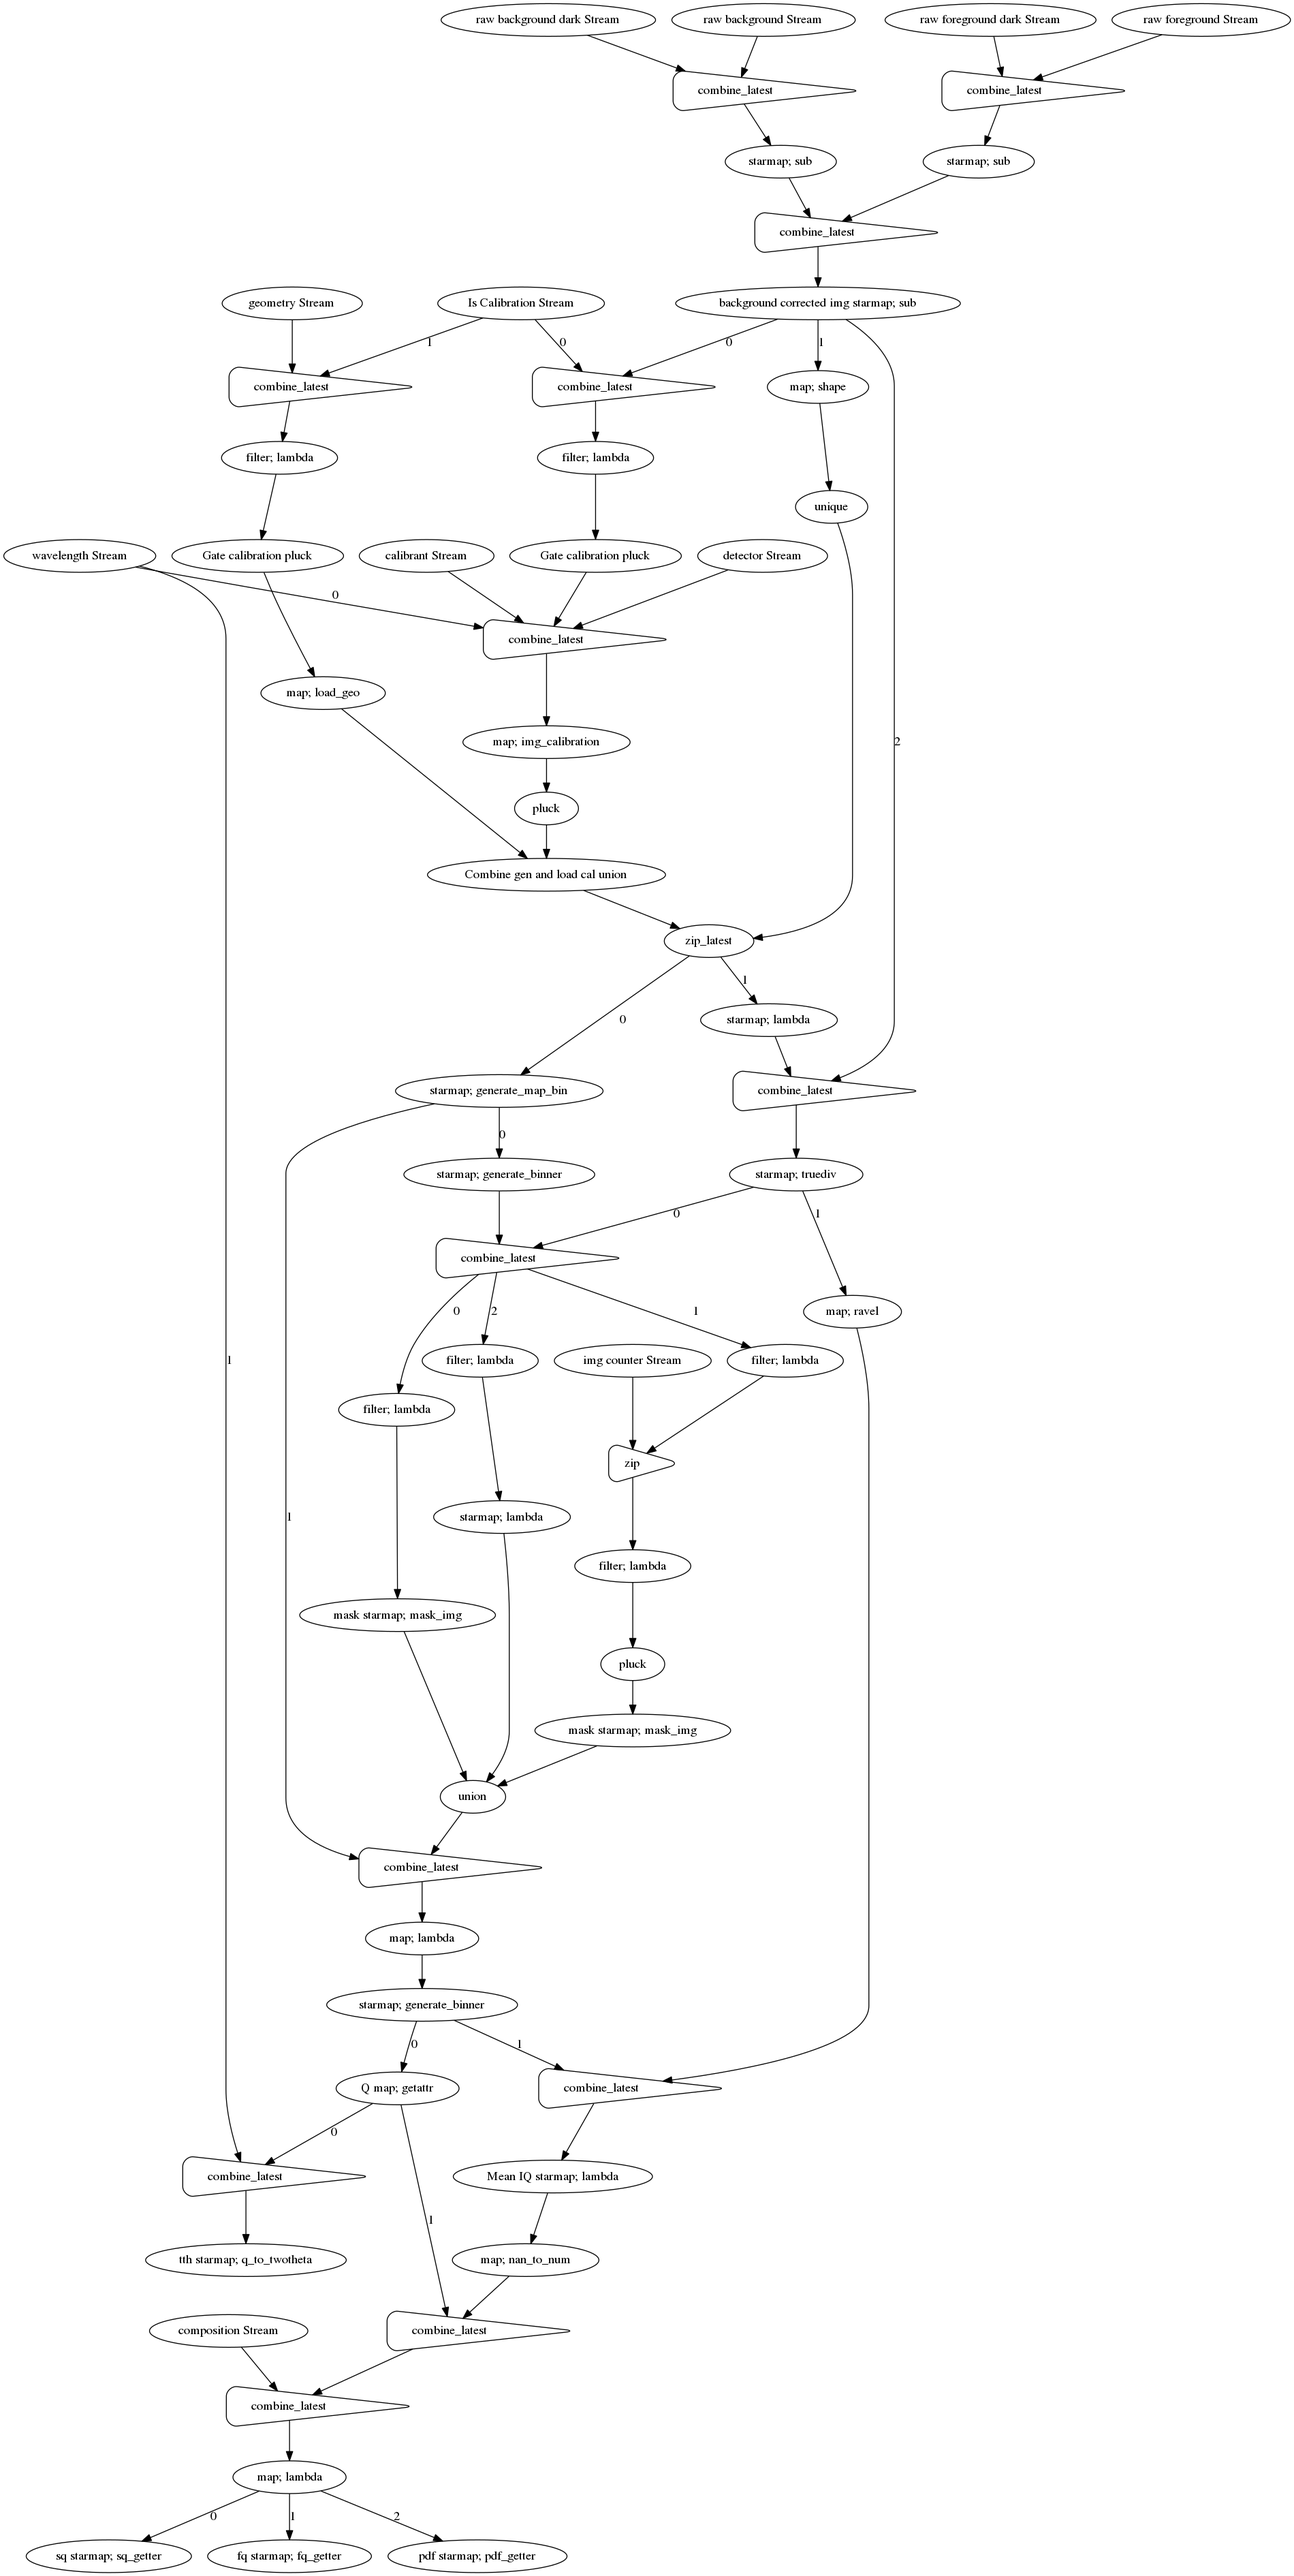
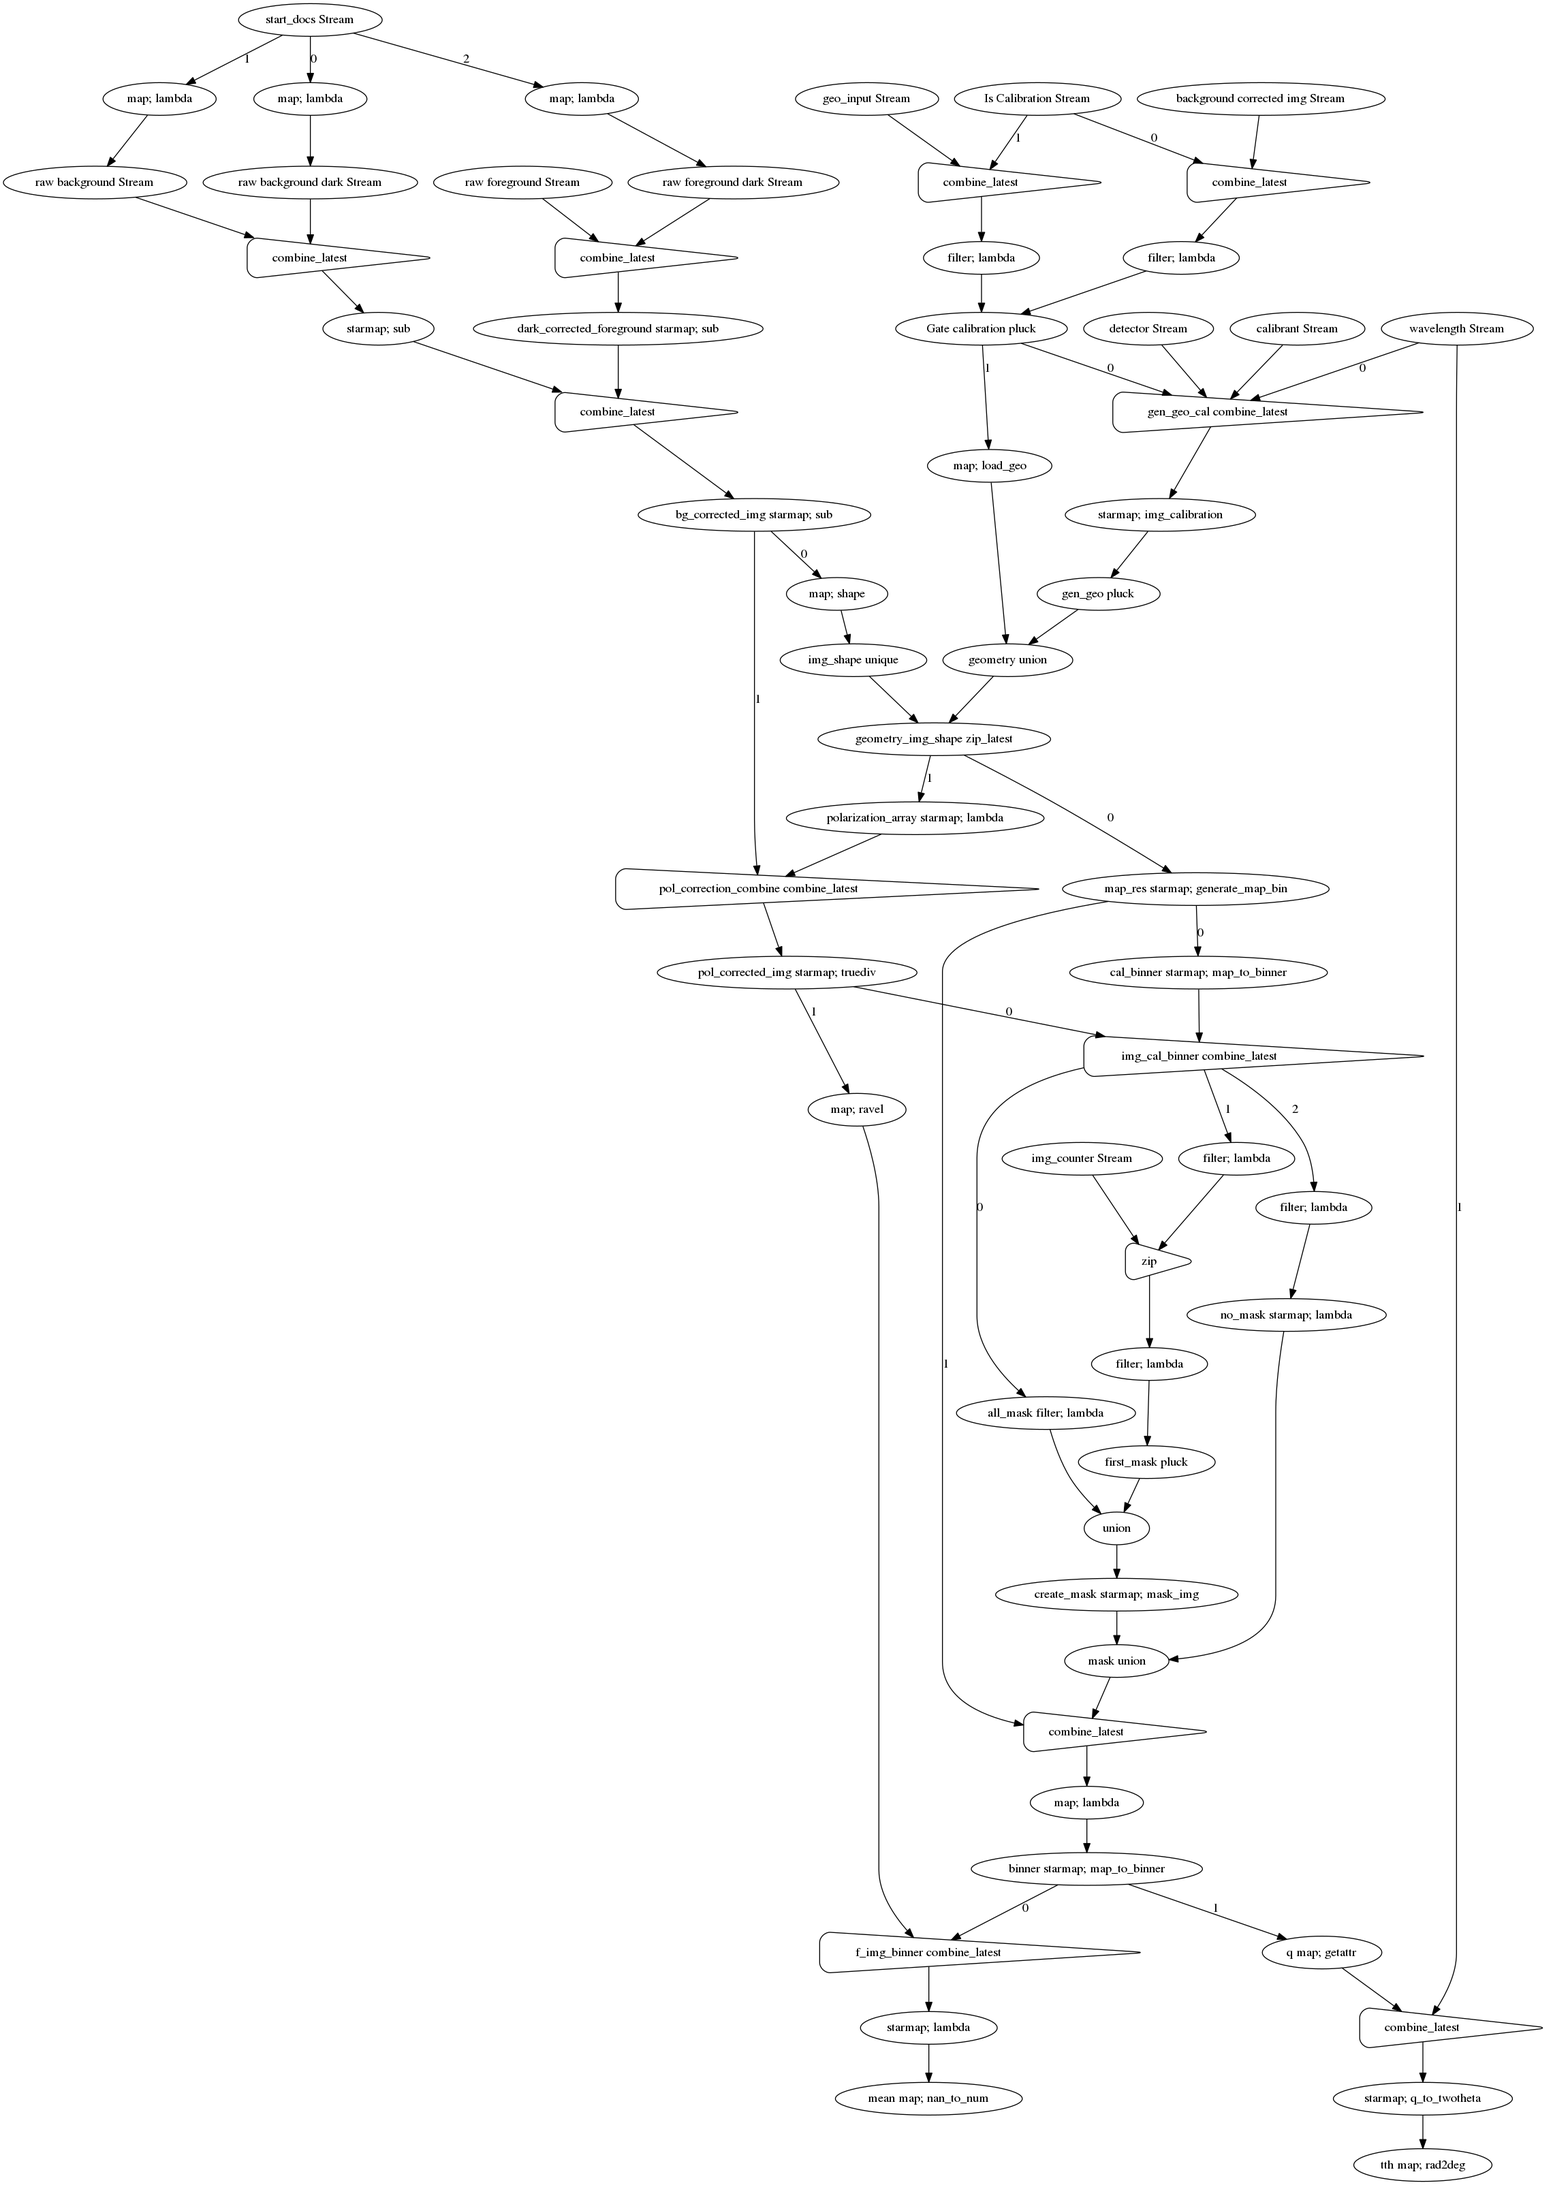
WIP: use the new networkx system

diff --git a/xpdtools/pipelines/calibration.py b/xpdtools/pipelines/calibration.py
@@ -2,56 +2,42 @@ from streamz import Stream
 from xpdtools.calib import img_calibration
 from xpdtools.tools import load_geo, generate_map_bin, map_to_binner
 
+from streamz_ext import create_streamz_graph
+
 
 def make_pipeline():
     """Make the pipeline for x-ray scattering detector calibration"""
-    bg_corrected_img = Stream()
-    img_shape = Stream()
+    bg_corrected_img = Stream(stream_name='background corrected img')
+    img_shape = Stream(stream_name='img_shape')
     # Calibration management
     wavelength = Stream(stream_name="wavelength")
     calibrant = Stream(stream_name="calibrant")
     detector = Stream(stream_name="detector")
     is_calibration_img = Stream(stream_name="Is Calibration")
-    geo_input = Stream(stream_name="geometry")
+    geo_input = Stream(stream_name="geo_input")
     gated_cal = (
         bg_corrected_img.combine_latest(is_calibration_img, emit_on=0)
         .filter(lambda a: bool(a[1]))
         .pluck(0, stream_name="Gate calibration")
     )
     gen_geo_cal = gated_cal.combine_latest(
-        wavelength, calibrant, detector, emit_on=0
+        wavelength, calibrant, detector, emit_on=0, stream_name='gen_geo_cal'
     ).starmap(img_calibration)
-    gen_geo = gen_geo_cal.pluck(1)
+    gen_geo = gen_geo_cal.pluck(1, stream_name='gen_geo')
     geometry = (
         geo_input.combine_latest(is_calibration_img, emit_on=0)
         .filter(lambda a: not bool(a[1]))
         .pluck(0, stream_name="Gate calibration")
         .map(load_geo)
-        .union(gen_geo, stream_name="Combine gen and load cal")
+        .union(gen_geo, stream_name="geometry")
     )
-    geometry_img_shape = geometry.zip_latest(img_shape)
+    geometry_img_shape = geometry.zip_latest(img_shape, stream_name='geometry_img_shape')
 
-    unique_geo = Stream(stream_name='Clear the geometry')
+    unique_geo = Stream(stream_name='unique_geo')
     unique_geo.sink(lambda x: geometry_img_shape.lossless_buffer.clear())
 
     # Only create map and bins (which is expensive) when needed
     # (new calibration)
-    map_res = geometry_img_shape.starmap(generate_map_bin)
-    cal_binner = map_res.starmap(map_to_binner)
-    return {
-        "bg_corrected_img": bg_corrected_img,
-        "img_shape": img_shape,
-        "wavelength": wavelength,
-        "calibrant": calibrant,
-        "detector": detector,
-        "is_calibration_img": is_calibration_img,
-        "geo_input": geo_input,
-        "gated_cal": gated_cal,
-        "gen_geo_cal": gen_geo_cal,
-        "gen_geo": gen_geo,
-        "geometry": geometry,
-        "geometry_img_shape": geometry_img_shape,
-        "map_res": map_res,
-        "cal_binner": cal_binner,
-        'unique_geo': unique_geo
-    }
+    map_res = geometry_img_shape.starmap(generate_map_bin, stream_name='map_res')
+    cal_binner = map_res.starmap(map_to_binner, stream_name='cal_binner')
+    return create_streamz_graph(bg_corrected_img)

diff --git a/xpdtools/pipelines/masking.py b/xpdtools/pipelines/masking.py
@@ -1,5 +1,5 @@
 import numpy as np
-from streamz_ext import Stream
+from streamz_ext import Stream, create_streamz_graph
 
 from xpdtools.tools import mask_img
 
@@ -8,20 +8,21 @@ mask_setting = {"setting": "auto"}
 
 def make_pipeline():
     """Make pipeline for automatic masking"""
-    pol_corrected_img = Stream()
-    cal_binner = Stream()
+    pol_corrected_img = Stream(stream_name='pol_corrected_img')
+    cal_binner = Stream(stream_name='cal_binner')
     # emit on img so we don't propagate old image data
     # note that the pol_corrected_img has touched the geometry and so always
     # comes after the geometry itself, so we never have a condition where we
     #  fail to emit because pol_corrected_img comes down first
     img_cal_binner = pol_corrected_img.combine_latest(
-        cal_binner, emit_on=pol_corrected_img
+        cal_binner, emit_on=pol_corrected_img, stream_name='img_cal_binner'
     )
     # This emits on every image if auto
     all_mask = img_cal_binner.filter(
-        lambda x, **kwargs: mask_setting["setting"] == "auto"
+        lambda x, **kwargs: mask_setting["setting"] == "auto",
+        stream_name='all_mask'
     )
-    img_counter = Stream(stream_name="img counter")
+    img_counter = Stream(stream_name="img_counter")
     # This emits on only the first image if first
     first_mask = (
         img_cal_binner.filter(
@@ -29,11 +30,10 @@ def make_pipeline():
         )
         .zip(img_counter)
         .filter(lambda x: x[1] == 1)
-        .pluck(0)
+        .pluck(0, stream_name='first_mask')
     )
     create_mask = all_mask.union(first_mask).starmap(
         mask_img,
-        stream_name="mask",
         **dict(
             edge=30,
             lower_thresh=0.0,
@@ -41,21 +41,11 @@ def make_pipeline():
             alpha=3,
             auto_type="median",
             tmsk=None,
-        )
+        ), stream_name='create_mask'
     )
 
     no_mask = img_cal_binner.filter(
         lambda x, **kwargs: mask_setting["setting"] == "none"
-    ).starmap(lambda img, *_: np.ones(img.shape, dtype=bool))
-    mask = create_mask.union(no_mask)
-    return {
-        "pol_corrected_img": pol_corrected_img,
-        "cal_binner": cal_binner,
-        "img_cal_binner": img_cal_binner,
-        "all_mask": all_mask,
-        "img_counter": img_counter,
-        "first_mask": first_mask,
-        "no_mask": no_mask,
-        "mask": mask,
-        "create_mask": create_mask,
-    }
+    ).starmap(lambda img, *_: np.ones(img.shape, dtype=bool), stream_name='no_mask')
+    mask = create_mask.union(no_mask, stream_name="mask",)
+    return create_streamz_graph(pol_corrected_img)

diff --git a/xpdtools/pipelines/integration.py b/xpdtools/pipelines/integration.py
@@ -3,7 +3,7 @@ Pipelines for integration
 """
 import numpy as np
 from skbeam.core.utils import q_to_twotheta
-from streamz_ext import Stream
+from streamz_ext import Stream, create_streamz_graph
 
 # TODO: break this up maybe?
 # This would allow users more control if they didn't want tth or Q
@@ -12,39 +12,28 @@ from xpdtools.tools import map_to_binner
 
 def make_pipeline():
     """Make pipeline for mean integration"""
-    map_res = Stream()
-    mask = Stream()
-    pol_corrected_img = Stream()
-    wavelength = Stream()
+    map_res = Stream(stream_name='map_res')
+    mask = Stream(stream_name='mask')
+    pol_corrected_img = Stream(stream_name='pol_corrected_img')
+    wavelength = Stream(stream_name='wavelength')
 
     binner = (
-        map_res.combine_latest(mask, emit_on=1)
-        .map(lambda x: (x[0][0], x[0][1], x[1]))
-        .starmap(map_to_binner)
-    )
-    f_img_binner = pol_corrected_img.map(np.ravel).combine_latest(
-        binner, emit_on=0
-    )
-    q = binner.map(getattr, "bin_centers", stream_name="Q")
+        map_res
+            .combine_latest(mask, emit_on=1)
+            .map(lambda x: (x[0][0], x[0][1], x[1]))
+            .starmap(map_to_binner, stream_name='binner'))
+    f_img_binner = (pol_corrected_img
+        .map(np.ravel)
+        .combine_latest(binner, emit_on=0, stream_name='f_img_binner'))
+    q = binner.map(getattr, "bin_centers", stream_name="q")
     tth = (
         q.combine_latest(wavelength, emit_on=0)
-        .starmap(q_to_twotheta, stream_name="tth")
-        .map(np.rad2deg)
+        .starmap(q_to_twotheta)
+        .map(np.rad2deg, stream_name="tth")
     )
 
     mean = f_img_binner.starmap(
         lambda img, binner, **kwargs: binner(img, **kwargs),
         statistic="mean",
-        stream_name="Mean IQ",
-    ).map(np.nan_to_num)
-    return {
-        "map_res": map_res,
-        "mask": mask,
-        "pol_corrected_img": pol_corrected_img,
-        "wavelength": wavelength,
-        "binner": binner,
-        "f_img_binner": f_img_binner,
-        "q": q,
-        "tth": tth,
-        "mean": mean,
-    }
+    ).map(np.nan_to_num, stream_name="mean")
+    return create_streamz_graph(mean)

diff --git a/xpdtools/pipelines/image_preprocess.py b/xpdtools/pipelines/image_preprocess.py
@@ -2,6 +2,7 @@ import operator as op
 
 import numpy as np
 from streamz import Stream
+from streamz_ext import create_streamz_graph
 
 
 def make_pipeline():
@@ -17,28 +18,19 @@ def make_pipeline():
     raw_background = Stream(stream_name="raw background")
     raw_background_dark = Stream(stream_name="raw background dark")
 
-    start_docs = Stream()
+    start_docs = Stream(stream_name='start_docs')
     for s in [raw_background_dark, raw_background, raw_foreground_dark]:
         start_docs.map(lambda x: 0.0).connect(s)
 
     dark_corrected_foreground = raw_foreground.combine_latest(
         raw_foreground_dark, emit_on=0
-    ).starmap(op.sub)
+    ).starmap(op.sub, stream_name='dark_corrected_foreground')
     dark_corrected_background = raw_background.combine_latest(
         raw_background_dark, emit_on=0
     ).starmap(op.sub)
     bg_corrected_img = dark_corrected_foreground.combine_latest(
         dark_corrected_background, emit_on=0
-    ).starmap(op.sub, stream_name="background corrected img")
-    img_shape = bg_corrected_img.map(np.shape).unique(history=1)
-    return dict(
-        raw_foreground=raw_foreground,
-        raw_foreground_dark=raw_foreground_dark,
-        raw_background=raw_background,
-        raw_background_dark=raw_background_dark,
-        dark_corrected_foreground=dark_corrected_foreground,
-        dark_corrected_background=dark_corrected_background,
-        bg_corrected_img=bg_corrected_img,
-        img_shape=img_shape,
-        start_docs=start_docs
-    )
+    ).starmap(op.sub, stream_name="bg_corrected_img")
+    img_shape = bg_corrected_img.map(np.shape).unique(history=1,
+                                                      stream_name='img_shape')
+    return create_streamz_graph(raw_foreground)

diff --git a/xpdtools/pipelines/scattering_correction.py b/xpdtools/pipelines/scattering_correction.py
@@ -1,26 +1,22 @@
-from streamz_ext import Stream
+from streamz_ext import Stream, create_streamz_graph
 import operator as op
 
 
 def make_pipeline():
     """Make pipeline for scattering (polarization) corrections"""
-    geometry_img_shape = Stream()
-    bg_corrected_img = Stream()
+    geometry_img_shape = Stream(stream_name='geometry_img_shape')
+    bg_corrected_img = Stream(stream_name="bg_corrected_img")
 
     polarization_array = geometry_img_shape.starmap(
         lambda geo, shape, polarization_factor: geo.polarization(
             shape, polarization_factor
         ),
-        .99,
+        .99, stream_name='polarization_array'
     )
     pol_correction_combine = bg_corrected_img.combine_latest(
-        polarization_array, emit_on=bg_corrected_img
+        polarization_array, emit_on=bg_corrected_img,
+        stream_name='pol_correction_combine'
     )
-    pol_corrected_img = pol_correction_combine.starmap(op.truediv)
-    return {
-        "geometry_img_shape": geometry_img_shape,
-        "bg_corrected_img": bg_corrected_img,
-        "polarization_array": polarization_array,
-        "pol_correction_combine": pol_correction_combine,
-        "pol_corrected_img": pol_corrected_img,
-    }
+    pol_corrected_img = pol_correction_combine.starmap(op.truediv,
+                                                       stream_name='pol_corrected_img')
+    return create_streamz_graph(geometry_img_shape)

diff --git a/xpdtools/pipelines/raw_pipeline.py b/xpdtools/pipelines/raw_pipeline.py
@@ -8,11 +8,16 @@ from xpdtools.pipelines.masking import (  # noqa: F401
     make_pipeline as mp,
     mask_setting,
 )
-from xpdtools.pipelines.pdf import make_pipeline as pdfp
+# from xpdtools.pipelines.pdf import make_pipeline as pdfp
 from xpdtools.pipelines.scattering_correction import make_pipeline as scat_cor
 
 
 def make_pipeline():
     # The process of making a pipeline is gluing pieces together
-    pipeline_dict = link(*[ipmp(), cal_mp(), scat_cor(), mp(), bp(), pdfp()])
+    pipeline_dict = link(*[ipmp(), cal_mp(), scat_cor(), mp(), bp(),
+                           # pdfp()
+                           ])
     return pipeline_dict
+
+mp2 = make_pipeline()
+mp2.node['raw foreground']['node'].visualize(source_node=True)
